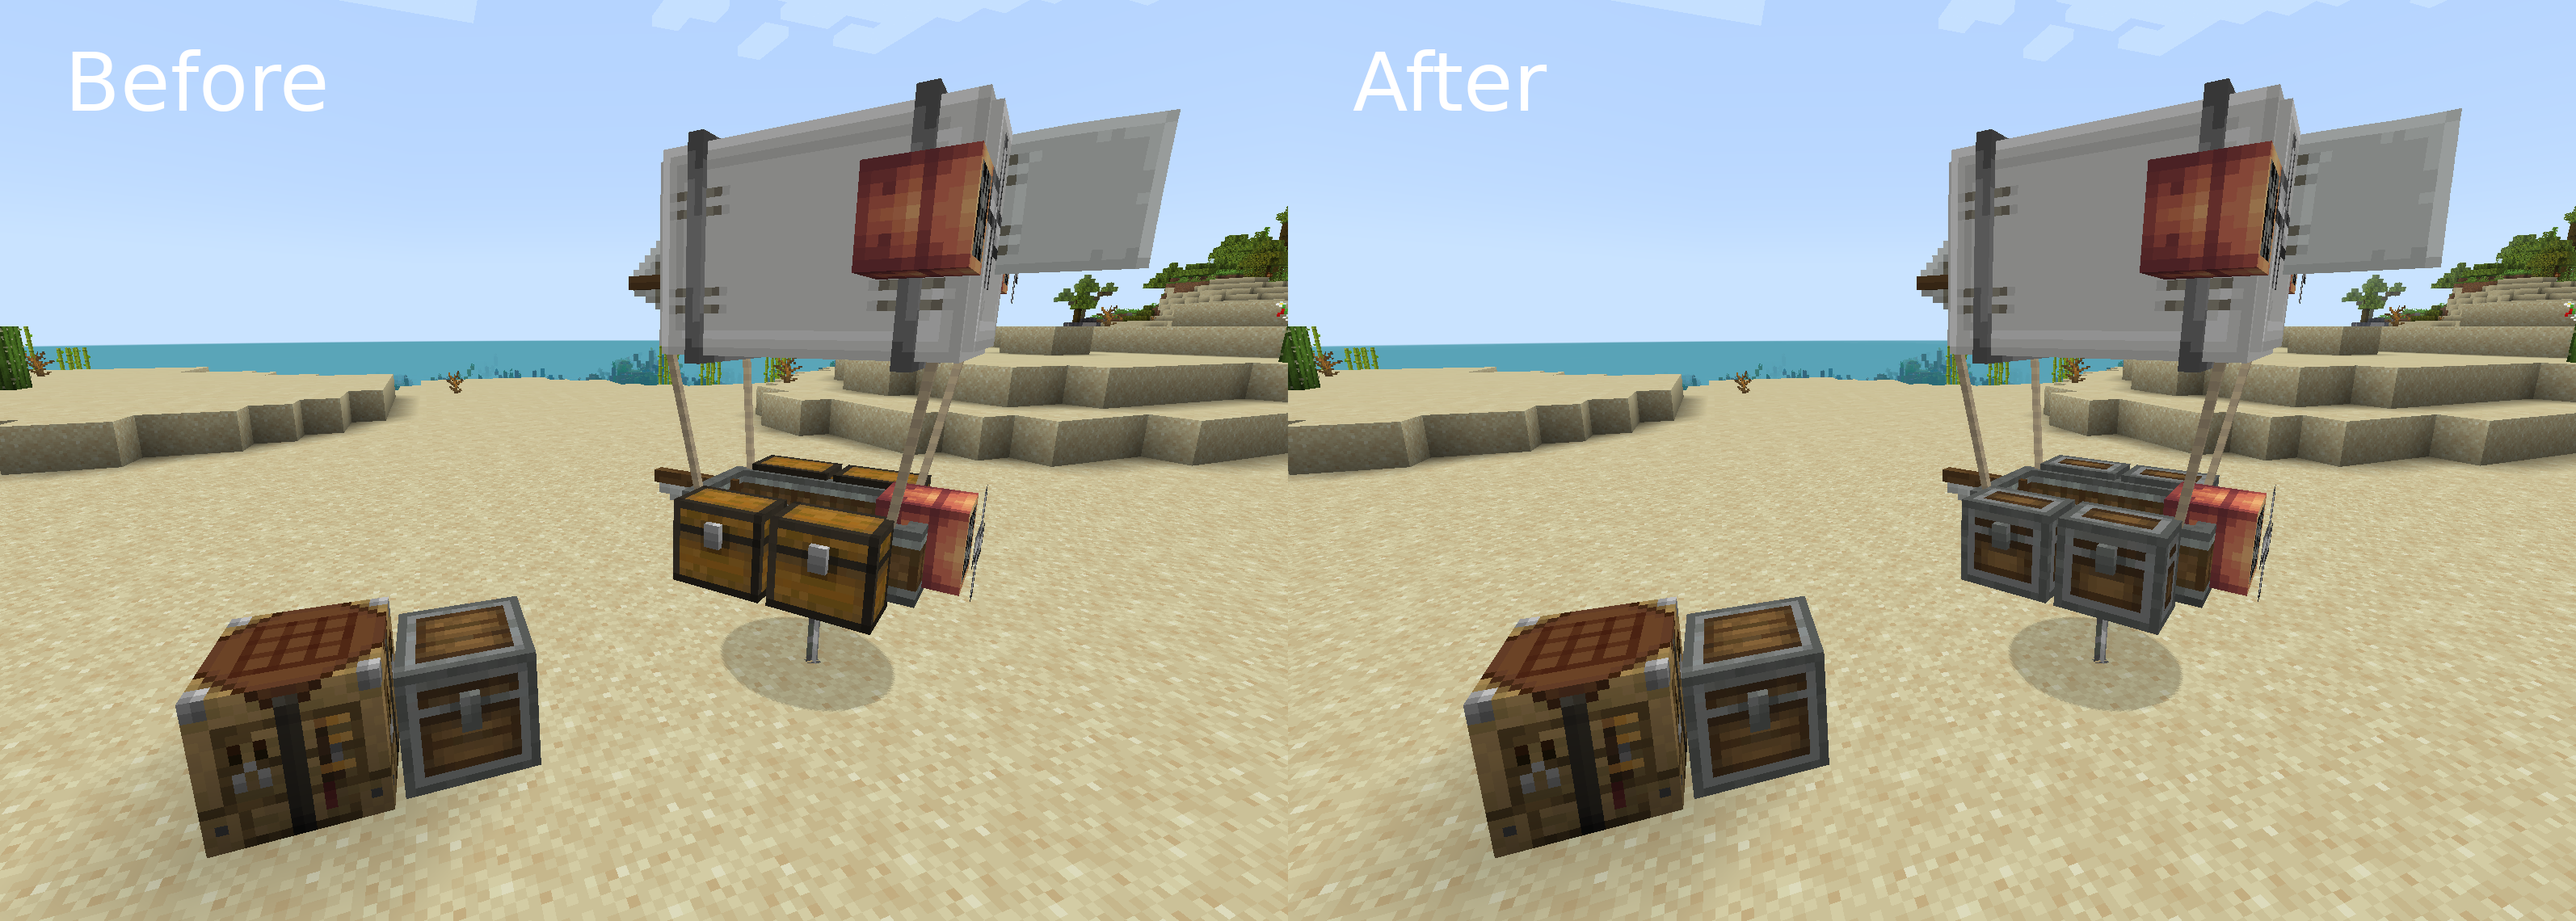
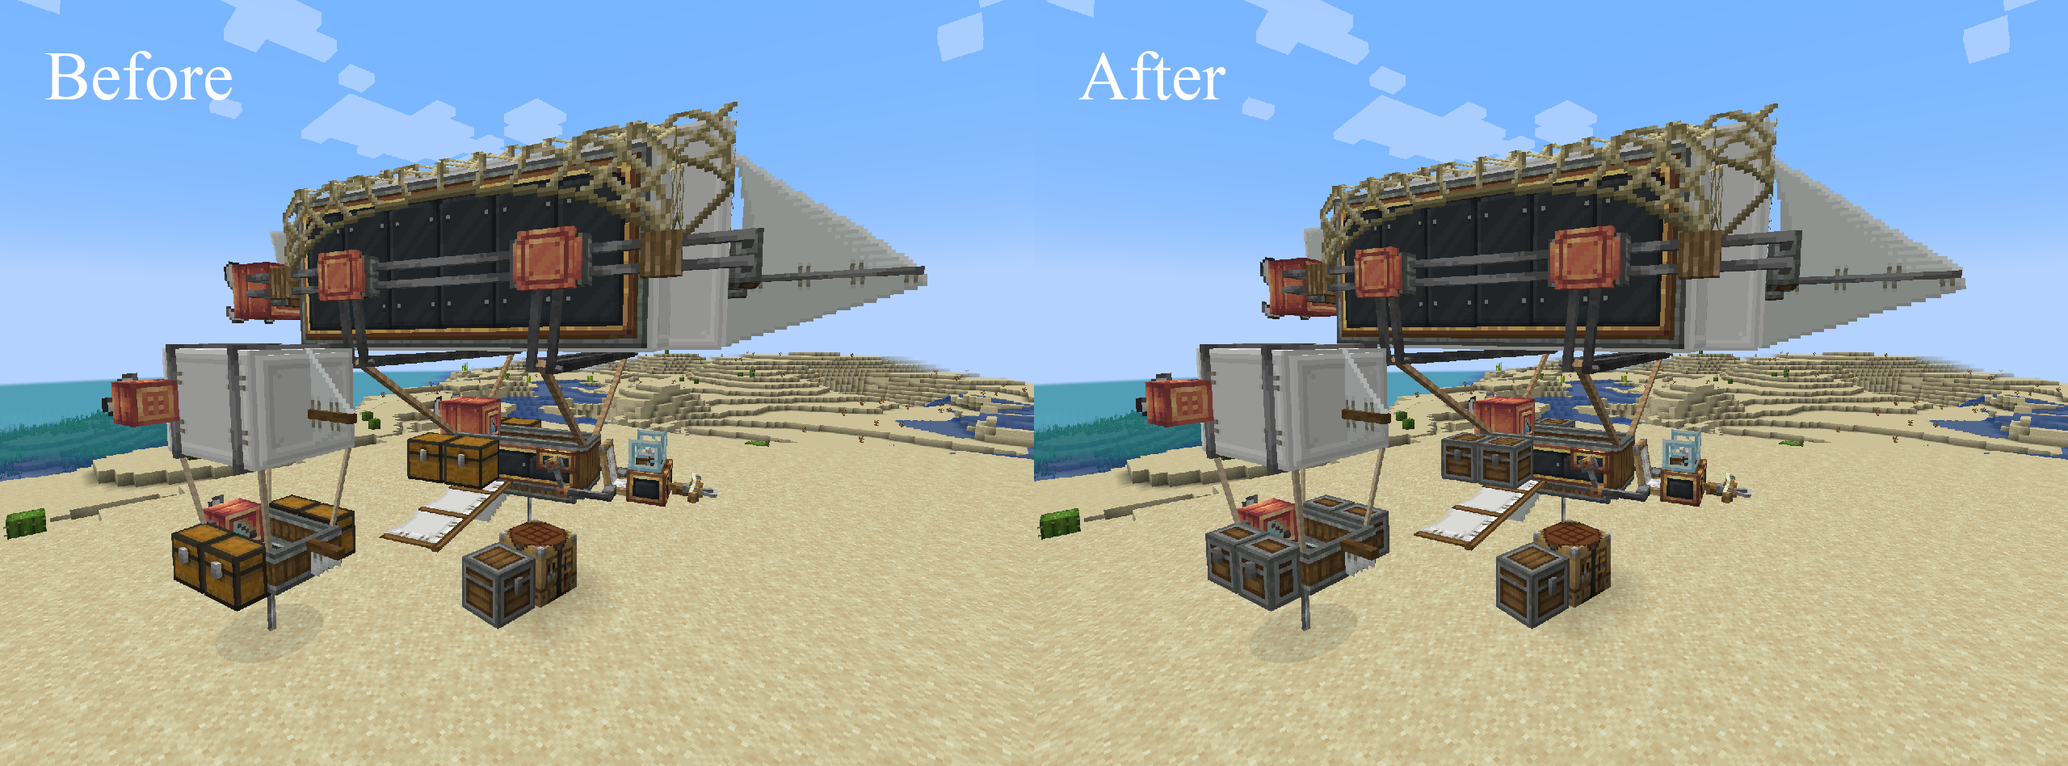
Updated gallery

diff --git a/README.md b/README.md
@@ -4,10 +4,12 @@
 
 This tiny resource pack adds andesite chests from [Andesite Chests + Crafting Table](https://www.curseforge.com/minecraft/texture-packs/andesite-chests-crafting-table) by [mental_xpc](https://www.curseforge.com/members/mental_xpc/projects) to [Create Immersive Aircrafts](https://www.curseforge.com/minecraft/texture-packs/create-immersive-aircrafts-resource-pack) by [nicky__21](https://www.curseforge.com/members/nicky__21/projects).
 
+Version 1.1.0 for 1.20.1 also integrates the warship from [Create Immersive Aircraft : Warship](https://www.curseforge.com/minecraft/texture-packs/create-immersive-aircraft-warship) by [crazyfl_](https://www.curseforge.com/members/crazyfl_/projects).
+
 ![Before and after loading the resource pack](./gallery/beforeafter.png)
 
 ## Installation
 
-Load this resource pack after both [Andesite Chests + Crafting Table](https://www.curseforge.com/minecraft/texture-packs/andesite-chests-crafting-table) and [Create Immersive Aircrafts](https://www.curseforge.com/minecraft/texture-packs/create-immersive-aircrafts-resource-pack) as shown below.
+Load this resource pack after [Andesite Chests + Crafting Table](https://www.curseforge.com/minecraft/texture-packs/andesite-chests-crafting-table), [Create Immersive Aircrafts](https://www.curseforge.com/minecraft/texture-packs/create-immersive-aircrafts-resource-pack), and [Create Immersive Aircraft : Warship](https://www.curseforge.com/minecraft/texture-packs/create-immersive-aircraft-warship) as shown below.
 
 ![Resource packs loading order](./gallery/resourcepacks.png)
